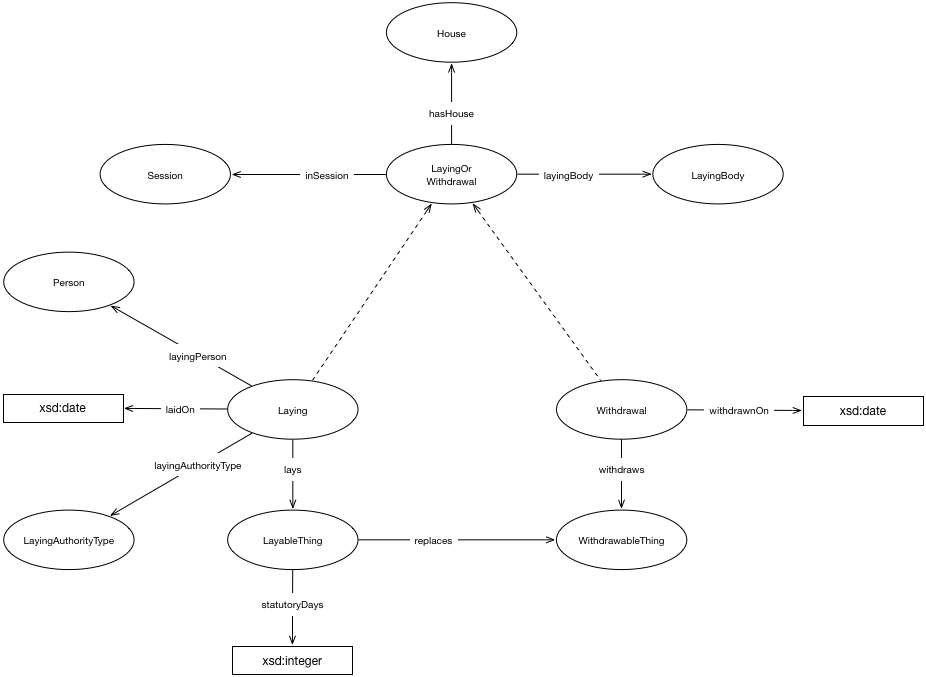
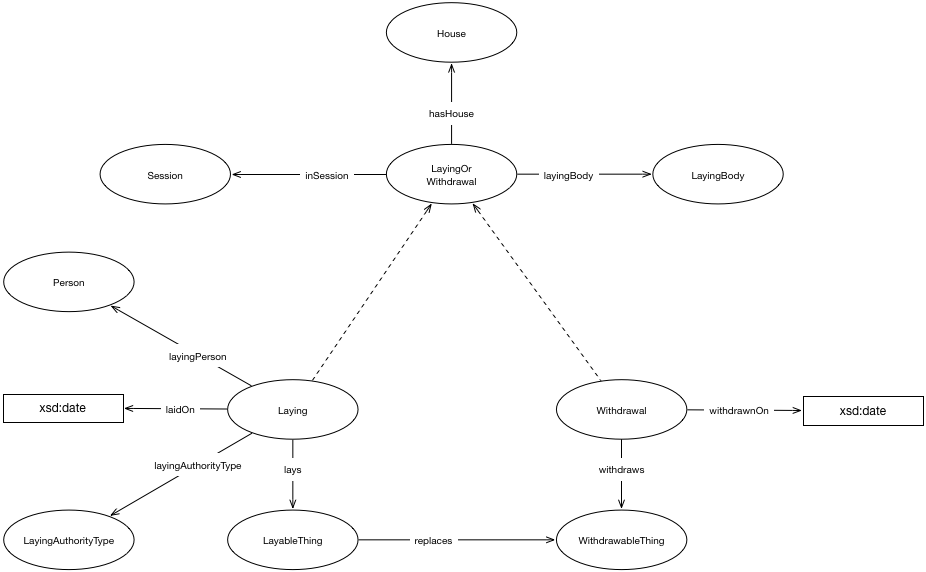
removed statutory days

diff --git a/laying/laying-ontology.html b/laying/laying-ontology.html
@@ -6,6 +6,8 @@
 
 
 
+
+
 	
 
 		<link href="https://ukparliament.github.io/ontologies/assets/css.css" rel="stylesheet" type="text/css" />
@@ -41,15 +43,4 @@
 
 
 
-
-
-
-
-
-
-
-
-
-<div id="classes"><h2>Classes</h2><ul class="hlist"><li><a href="#d4e201" title="http://parliament.uk/ontologies/laying/House">House</a></li><li><a href="#d4e213" title="http://parliament.uk/ontologies/laying/LayableThing">LayableThing</a></li><li><a href="#d4e224" title="http://parliament.uk/ontologies/laying/Laying">Laying</a></li><li><a href="#d4e237" title="http://parliament.uk/ontologies/laying/LayingAuthorityType">LayingAuthorityType</a></li><li><a href="#d4e249" title="http://parliament.uk/ontologies/laying/LayingBody">LayingBody</a></li><li><a href="#d4e260" title="http://parliament.uk/ontologies/laying/LayingOrWithdrawal">LayingOrWithdrawal</a></li><li><a href="#d4e271" title="http://parliament.uk/ontologies/laying/Person">Person</a></li><li><a href="#d4e283" title="http://parliament.uk/ontologies/laying/Session">Session</a></li><li><a href="#d4e294" title="http://parliament.uk/ontologies/laying/WithdrawableThing">WithdrawableThing</a></li><li><a href="#d4e305" title="http://parliament.uk/ontologies/laying/Withdrawal">Withdrawal</a></li></ul><div id="d4e201" class="entity"><a name="http://parliament.uk/ontologies/laying/House"></a><h3>House<sup title="class" class="type-c">c</sup><span class="backlink"> back to <a href="#toc">ToC</a> or <a href="#classes">Class ToC</a></span></h3><p><strong>IRI:</strong> http://parliament.uk/ontologies/laying/House</p><div class="comment"><span class="markdown">A parliamentary House e.g. the House of Lords.</span></div><dl class="description"><dt>is in range of</dt><dd><a href="#d4e29" title="http://parliament.uk/ontologies/laying/hasHouse">hasHouse</a><sup title="object property" class="type-op">op</sup></dd></dl></div><div id="d4e213" class="entity"><a name="http://parliament.uk/ontologies/laying/LayableThing"></a><h3>LayableThing<sup title="class" class="type-c">c</sup><span class="backlink"> back to <a href="#toc">ToC</a> or <a href="#classes">Class ToC</a></span></h3><p><strong>IRI:</strong> http://parliament.uk/ontologies/laying/LayableThing</p><div class="comment"><span class="markdown">Any type of paper which can be laid before a House.</span></div><dl class="description"><dt>is in domain of</dt><dd><a href="#d4e121" title="http://parliament.uk/ontologies/laying/replaces">replaces</a><sup title="object property" class="type-op">op</sup>, <a href="#d4e169" title="http://parliament.uk/ontologies/laying/statutoryDays">statutoryDays</a><sup title="data property" class="type-dp">dp</sup></dd><dt>is in range of</dt><dd><a href="#d4e105" title="http://parliament.uk/ontologies/laying/lays">lays</a><sup title="object property" class="type-op">op</sup></dd></dl></div><div id="d4e224" class="entity"><a name="http://parliament.uk/ontologies/laying/Laying"></a><h3>Laying<sup title="class" class="type-c">c</sup><span class="backlink"> back to <a href="#toc">ToC</a> or <a href="#classes">Class ToC</a></span></h3><p><strong>IRI:</strong> http://parliament.uk/ontologies/laying/Laying</p><div class="comment"><span class="markdown">The act of presenting a paper to a House.</span></div><dl class="description"><dt>has super-classes</dt><dd><a href="#d4e260" title="http://parliament.uk/ontologies/laying/LayingOrWithdrawal">LayingOrWithdrawal</a><sup title="class" class="type-c">c</sup></dd><dt>is in domain of</dt><dd><a href="#d4e153" title="http://parliament.uk/ontologies/laying/laidOn">laidOn</a><sup title="data property" class="type-dp">dp</sup>, <a href="#d4e59" title="http://parliament.uk/ontologies/laying/layingAuthorityType">layingAuthorityType</a><sup title="object property" class="type-op">op</sup>, <a href="#d4e90" title="http://parliament.uk/ontologies/laying/layingPerson">layingPerson</a><sup title="object property" class="type-op">op</sup>, <a href="#d4e105" title="http://parliament.uk/ontologies/laying/lays">lays</a><sup title="object property" class="type-op">op</sup></dd></dl></div><div id="d4e237" class="entity"><a name="http://parliament.uk/ontologies/laying/LayingAuthorityType"></a><h3>LayingAuthorityType<sup title="class" class="type-c">c</sup><span class="backlink"> back to <a href="#toc">ToC</a> or <a href="#classes">Class ToC</a></span></h3><p><strong>IRI:</strong> http://parliament.uk/ontologies/laying/LayingAuthorityType</p><div class="comment"><span class="markdown">The procedural authority by which a paper is laid before a House. Many documents are required by law to be laid before the House. These are called Act papers and are referred to as being laid 'by Act'. Other papers are made available to the House by the Government. These are called Command papers and are referred to as being laid 'by Command'. A paper cannot be laid by both Act and Command, although in some cases papers are laid by Act in the Commons and by Command in the Lords.</span></div><dl class="description"><dt>is in range of</dt><dd><a href="#d4e59" title="http://parliament.uk/ontologies/laying/layingAuthorityType">layingAuthorityType</a><sup title="object property" class="type-op">op</sup></dd></dl></div><div id="d4e249" class="entity"><a name="http://parliament.uk/ontologies/laying/LayingBody"></a><h3>LayingBody<sup title="class" class="type-c">c</sup><span class="backlink"> back to <a href="#toc">ToC</a> or <a href="#classes">Class ToC</a></span></h3><p><strong>IRI:</strong> http://parliament.uk/ontologies/laying/LayingBody</p><div class="comment"><span class="markdown">A body with the authority to lay papers before a House.</span></div><dl class="description"><dt>is in range of</dt><dd><a href="#d4e75" title="http://parliament.uk/ontologies/laying/layingBody">layingBody</a><sup title="object property" class="type-op">op</sup></dd></dl></div><div id="d4e260" class="entity"><a name="http://parliament.uk/ontologies/laying/LayingOrWithdrawal"></a><h3>LayingOrWithdrawal<sup title="class" class="type-c">c</sup><span class="backlink"> back to <a href="#toc">ToC</a> or <a href="#classes">Class ToC</a></span></h3><p><strong>IRI:</strong> http://parliament.uk/ontologies/laying/LayingOrWithdrawal</p><div class="comment"><span class="markdown">The act of laying before or withdrawing from a House.</span></div><dl class="description"><dt>has sub-classes</dt><dd><a href="#d4e224" title="http://parliament.uk/ontologies/laying/Laying">Laying</a><sup title="class" class="type-c">c</sup>, <a href="#d4e305" title="http://parliament.uk/ontologies/laying/Withdrawal">Withdrawal</a><sup title="class" class="type-c">c</sup></dd><dt>is in domain of</dt><dd><a href="#d4e29" title="http://parliament.uk/ontologies/laying/hasHouse">hasHouse</a><sup title="object property" class="type-op">op</sup>, <a href="#d4e44" title="http://parliament.uk/ontologies/laying/inSession">inSession</a><sup title="object property" class="type-op">op</sup>, <a href="#d4e75" title="http://parliament.uk/ontologies/laying/layingBody">layingBody</a><sup title="object property" class="type-op">op</sup></dd></dl></div><div id="d4e271" class="entity"><a name="http://parliament.uk/ontologies/laying/Person"></a><h3>Person<sup title="class" class="type-c">c</sup><span class="backlink"> back to <a href="#toc">ToC</a> or <a href="#classes">Class ToC</a></span></h3><p><strong>IRI:</strong> http://parliament.uk/ontologies/laying/Person</p><div class="comment"><span class="markdown">A person.</span></div><dl class="description"><dt>is in range of</dt><dd><a href="#d4e90" title="http://parliament.uk/ontologies/laying/layingPerson">layingPerson</a><sup title="object property" class="type-op">op</sup></dd></dl></div><div id="d4e283" class="entity"><a name="http://parliament.uk/ontologies/laying/Session"></a><h3>Session<sup title="class" class="type-c">c</sup><span class="backlink"> back to <a href="#toc">ToC</a> or <a href="#classes">Class ToC</a></span></h3><p><strong>IRI:</strong> http://parliament.uk/ontologies/laying/Session</p><div class="comment"><span class="markdown">The period during which Parliament is active. The first session of a parliament begins on the same day as the parliament. This date is named in the dissolution proclamation. It ends on the day named in the subsequent prorogation proclamation. Subsequent sessions begin and end on dates named in prorogation proclamations. The final session ends with a prorogation followed by a dissolution. Parliament may be prorogued a few days before dissolution. A session typically lasts for one year though isn't bound by that. Session periods are the same across both Houses.</span></div><dl class="description"><dt>is in range of</dt><dd><a href="#d4e44" title="http://parliament.uk/ontologies/laying/inSession">inSession</a><sup title="object property" class="type-op">op</sup></dd></dl></div><div id="d4e294" class="entity"><a name="http://parliament.uk/ontologies/laying/WithdrawableThing"></a><h3>WithdrawableThing<sup title="class" class="type-c">c</sup><span class="backlink"> back to <a href="#toc">ToC</a> or <a href="#classes">Class ToC</a></span></h3><p><strong>IRI:</strong> http://parliament.uk/ontologies/laying/WithdrawableThing</p><div class="comment"><span class="markdown">Any type of paper which can be withdrawn from a House.</span></div><dl class="description"><dt>is in range of</dt><dd><a href="#d4e121" title="http://parliament.uk/ontologies/laying/replaces">replaces</a><sup title="object property" class="type-op">op</sup>, <a href="#d4e136" title="http://parliament.uk/ontologies/laying/withdraws">withdraws</a><sup title="object property" class="type-op">op</sup></dd></dl></div><div id="d4e305" class="entity"><a name="http://parliament.uk/ontologies/laying/Withdrawal"></a><h3>Withdrawal<sup title="class" class="type-c">c</sup><span class="backlink"> back to <a href="#toc">ToC</a> or <a href="#classes">Class ToC</a></span></h3><p><strong>IRI:</strong> http://parliament.uk/ontologies/laying/Withdrawal</p><div class="comment"><span class="markdown">The act of withdrawing a paper from a House.</span></div><dl class="description"><dt>has super-classes</dt><dd><a href="#d4e260" title="http://parliament.uk/ontologies/laying/LayingOrWithdrawal">LayingOrWithdrawal</a><sup title="class" class="type-c">c</sup></dd><dt>is in domain of</dt><dd><a href="#d4e184" title="http://parliament.uk/ontologies/laying/withdrawnOn">withdrawnOn</a><sup title="data property" class="type-dp">dp</sup>, <a href="#d4e136" title="http://parliament.uk/ontologies/laying/withdraws">withdraws</a><sup title="object property" class="type-op">op</sup></dd></dl></div></div><div id="objectproperties"><h2>Object Properties</h2><ul class="hlist"><li><a href="#d4e29" title="http://parliament.uk/ontologies/laying/hasHouse">hasHouse</a></li><li><a href="#d4e44" title="http://parliament.uk/ontologies/laying/inSession">inSession</a></li><li><a href="#d4e59" title="http://parliament.uk/ontologies/laying/layingAuthorityType">layingAuthorityType</a></li><li><a href="#d4e75" title="http://parliament.uk/ontologies/laying/layingBody">layingBody</a></li><li><a href="#d4e90" title="http://parliament.uk/ontologies/laying/layingPerson">layingPerson</a></li><li><a href="#d4e105" title="http://parliament.uk/ontologies/laying/lays">lays</a></li><li><a href="#d4e121" title="http://parliament.uk/ontologies/laying/replaces">replaces</a></li><li><a href="#d4e136" title="http://parliament.uk/ontologies/laying/withdraws">withdraws</a></li></ul><div id="d4e29" class="entity"><a name="http://parliament.uk/ontologies/laying/hasHouse"></a><h3>hasHouse<sup title="object property" class="type-op">op</sup><span class="backlink"> back to <a href="#toc">ToC</a> or <a href="#objectproperties">Object Property ToC</a></span></h3><p><strong>IRI:</strong> http://parliament.uk/ontologies/laying/hasHouse</p><div class="comment"><span class="markdown">Relates an act of laying or withdrawing to the House it happens in.</span></div><div class="description"><dl><dt>has domain</dt><dd><a href="#d4e260" title="http://parliament.uk/ontologies/laying/LayingOrWithdrawal">LayingOrWithdrawal</a><sup title="class" class="type-c">c</sup></dd><dt>has range</dt><dd><a href="#d4e201" title="http://parliament.uk/ontologies/laying/House">House</a><sup title="class" class="type-c">c</sup></dd></dl></div></div><div id="d4e44" class="entity"><a name="http://parliament.uk/ontologies/laying/inSession"></a><h3>inSession<sup title="object property" class="type-op">op</sup><span class="backlink"> back to <a href="#toc">ToC</a> or <a href="#objectproperties">Object Property ToC</a></span></h3><p><strong>IRI:</strong> http://parliament.uk/ontologies/laying/inSession</p><div class="comment"><span class="markdown">Relates an act of laying or withdrawing to the Session it happens in. Note that papers may be laid during a prorogation period for the attention of the House during the subsequent session. In this case this relationship would point to the subsequent session.</span></div><div class="description"><dl><dt>has domain</dt><dd><a href="#d4e260" title="http://parliament.uk/ontologies/laying/LayingOrWithdrawal">LayingOrWithdrawal</a><sup title="class" class="type-c">c</sup></dd><dt>has range</dt><dd><a href="#d4e283" title="http://parliament.uk/ontologies/laying/Session">Session</a><sup title="class" class="type-c">c</sup></dd></dl></div></div><div id="d4e59" class="entity"><a name="http://parliament.uk/ontologies/laying/layingAuthorityType"></a><h3>layingAuthorityType<sup title="object property" class="type-op">op</sup><span class="backlink"> back to <a href="#toc">ToC</a> or <a href="#objectproperties">Object Property ToC</a></span></h3><p><strong>IRI:</strong> http://parliament.uk/ontologies/laying/layingAuthorityType</p><div class="comment"><span class="markdown">Relates an act of laying to a laying authority type.</span></div><div class="description"><dl><dt>has domain</dt><dd><a href="#d4e224" title="http://parliament.uk/ontologies/laying/Laying">Laying</a><sup title="class" class="type-c">c</sup></dd><dt>has range</dt><dd><a href="#d4e237" title="http://parliament.uk/ontologies/laying/LayingAuthorityType">LayingAuthorityType</a><sup title="class" class="type-c">c</sup></dd></dl></div></div><div id="d4e75" class="entity"><a name="http://parliament.uk/ontologies/laying/layingBody"></a><h3>layingBody<sup title="object property" class="type-op">op</sup><span class="backlink"> back to <a href="#toc">ToC</a> or <a href="#objectproperties">Object Property ToC</a></span></h3><p><strong>IRI:</strong> http://parliament.uk/ontologies/laying/layingBody</p><div class="comment"><span class="markdown">Relates an act of laying or withdrawal to the laying body initiating it.</span></div><div class="description"><dl><dt>has domain</dt><dd><a href="#d4e260" title="http://parliament.uk/ontologies/laying/LayingOrWithdrawal">LayingOrWithdrawal</a><sup title="class" class="type-c">c</sup></dd><dt>has range</dt><dd><a href="#d4e249" title="http://parliament.uk/ontologies/laying/LayingBody">LayingBody</a><sup title="class" class="type-c">c</sup></dd></dl></div></div><div id="d4e90" class="entity"><a name="http://parliament.uk/ontologies/laying/layingPerson"></a><h3>layingPerson<sup title="object property" class="type-op">op</sup><span class="backlink"> back to <a href="#toc">ToC</a> or <a href="#objectproperties">Object Property ToC</a></span></h3><p><strong>IRI:</strong> http://parliament.uk/ontologies/laying/layingPerson</p><div class="comment"><span class="markdown">Relates an act of laying to the person initiating it.</span></div><div class="description"><dl><dt>has domain</dt><dd><a href="#d4e224" title="http://parliament.uk/ontologies/laying/Laying">Laying</a><sup title="class" class="type-c">c</sup></dd><dt>has range</dt><dd><a href="#d4e271" title="http://parliament.uk/ontologies/laying/Person">Person</a><sup title="class" class="type-c">c</sup></dd></dl></div></div><div id="d4e105" class="entity"><a name="http://parliament.uk/ontologies/laying/lays"></a><h3>lays<sup title="object property" class="type-op">op</sup><span class="backlink"> back to <a href="#toc">ToC</a> or <a href="#objectproperties">Object Property ToC</a></span></h3><p><strong>IRI:</strong> http://parliament.uk/ontologies/laying/lays</p><div class="comment"><span class="markdown">Relates an act of laying to a thing which is layable.</span></div><div class="description"><dl><dt>has domain</dt><dd><a href="#d4e224" title="http://parliament.uk/ontologies/laying/Laying">Laying</a><sup title="class" class="type-c">c</sup></dd><dt>has range</dt><dd><a href="#d4e213" title="http://parliament.uk/ontologies/laying/LayableThing">LayableThing</a><sup title="class" class="type-c">c</sup></dd></dl></div></div><div id="d4e121" class="entity"><a name="http://parliament.uk/ontologies/laying/replaces"></a><h3>replaces<sup title="object property" class="type-op">op</sup><span class="backlink"> back to <a href="#toc">ToC</a> or <a href="#objectproperties">Object Property ToC</a></span></h3><p><strong>IRI:</strong> http://parliament.uk/ontologies/laying/replaces</p><div class="comment"><span class="markdown">Relates a laid thing to the withdrawn thing it replaces.</span></div><div class="description"><dl><dt>has domain</dt><dd><a href="#d4e213" title="http://parliament.uk/ontologies/laying/LayableThing">LayableThing</a><sup title="class" class="type-c">c</sup></dd><dt>has range</dt><dd><a href="#d4e294" title="http://parliament.uk/ontologies/laying/WithdrawableThing">WithdrawableThing</a><sup title="class" class="type-c">c</sup></dd></dl></div></div><div id="d4e136" class="entity"><a name="http://parliament.uk/ontologies/laying/withdraws"></a><h3>withdraws<sup title="object property" class="type-op">op</sup><span class="backlink"> back to <a href="#toc">ToC</a> or <a href="#objectproperties">Object Property ToC</a></span></h3><p><strong>IRI:</strong> http://parliament.uk/ontologies/laying/withdraws</p><div class="comment"><span class="markdown">Relates an act of withdrawal to a thing which is withdrawable.</span></div><div class="description"><dl><dt>has domain</dt><dd><a href="#d4e305" title="http://parliament.uk/ontologies/laying/Withdrawal">Withdrawal</a><sup title="class" class="type-c">c</sup></dd><dt>has range</dt><dd><a href="#d4e294" title="http://parliament.uk/ontologies/laying/WithdrawableThing">WithdrawableThing</a><sup title="class" class="type-c">c</sup></dd></dl></div></div></div><div id="dataproperties"><h2>Data Properties</h2><ul class="hlist"><li><a href="#d4e153" title="http://parliament.uk/ontologies/laying/laidOn">laidOn</a></li><li><a href="#d4e169" title="http://parliament.uk/ontologies/laying/statutoryDays">statutoryDays</a></li><li><a href="#d4e184" title="http://parliament.uk/ontologies/laying/withdrawnOn">withdrawnOn</a></li></ul><div id="d4e153" class="entity"><a name="http://parliament.uk/ontologies/laying/laidOn"></a><h3>laidOn<sup title="data property" class="type-dp">dp</sup><span class="backlink"> back to <a href="#toc">ToC</a> or <a href="#dataproperties">Data Property ToC</a></span></h3><p><strong>IRI:</strong> http://parliament.uk/ontologies/laying/laidOn</p><div class="comment"><span class="markdown">Relates an act of laying to the date it happens on. Note that this can only happen during a parliamentary period (during a session or prorogation period), not during dissolution.</span></div><div class="description"><dl><dt>has domain</dt><dd><a href="#d4e224" title="http://parliament.uk/ontologies/laying/Laying">Laying</a><sup title="class" class="type-c">c</sup></dd><dt>has range</dt><dd><span class="dotted" title="http://www.w3.org/2001/XMLSchema#date">date</span></dd></dl></div></div><div id="d4e169" class="entity"><a name="http://parliament.uk/ontologies/laying/statutoryDays"></a><h3>statutoryDays<sup title="data property" class="type-dp">dp</sup><span class="backlink"> back to <a href="#toc">ToC</a> or <a href="#dataproperties">Data Property ToC</a></span></h3><p><strong>IRI:</strong> http://parliament.uk/ontologies/laying/statutoryDays</p><div class="comment"><span class="markdown">The number of days during which Parliament can approve or pray against a laid instrument e.g. a statutory instrument or treaty.</span></div><div class="description"><dl><dt>has domain</dt><dd><a href="#d4e213" title="http://parliament.uk/ontologies/laying/LayableThing">LayableThing</a><sup title="class" class="type-c">c</sup></dd><dt>has range</dt><dd><span class="dotted" title="http://www.w3.org/2001/XMLSchema#integer">integer</span></dd></dl></div></div><div id="d4e184" class="entity"><a name="http://parliament.uk/ontologies/laying/withdrawnOn"></a><h3>withdrawnOn<sup title="data property" class="type-dp">dp</sup><span class="backlink"> back to <a href="#toc">ToC</a> or <a href="#dataproperties">Data Property ToC</a></span></h3><p><strong>IRI:</strong> http://parliament.uk/ontologies/laying/withdrawnOn</p><div class="comment"><span class="markdown">Relates an act of withdrawal to the date it happens on.</span></div><div class="description"><dl><dt>has domain</dt><dd><a href="#d4e305" title="http://parliament.uk/ontologies/laying/Withdrawal">Withdrawal</a><sup title="class" class="type-c">c</sup></dd><dt>has range</dt><dd><span class="dotted" title="http://www.w3.org/2001/XMLSchema#date">date</span></dd></dl></div></div></div><div id="namespacedeclarations"><h2>Namespace Declarations <span class="backlink"> back to <a href="#toc">ToC</a></span></h2><dl><dt><em>default namespace</em></dt><dd>http://parliament.uk/ontologies/laying/</dd><dt>owl</dt><dd>http://www.w3.org/2002/07/owl#</dd><dt>rdf</dt><dd>http://www.w3.org/1999/02/22-rdf-syntax-ns#</dd><dt>rdfs</dt><dd>http://www.w3.org/2000/01/rdf-schema#</dd><dt>terms</dt><dd>http://purl.org/dc/terms/</dd><dt>xsd</dt><dd>http://www.w3.org/2001/XMLSchema#</dd></dl></div><p class="endnote">This HTML document was obtained by processing the OWL ontology source code through <a href="http://www.essepuntato.it/lode">LODE</a>, <em>Live OWL Documentation Environment</em>, developed by <a href="http://www.essepuntato.it">Silvio Peroni</a>.</p></body></html>
-
-
+<div id="classes"><h2>Classes</h2><ul class="hlist"><li><a href="#d4e186" title="http://parliament.uk/ontologies/laying/House">House</a></li><li><a href="#d4e197" title="http://parliament.uk/ontologies/laying/LayableThing">LayableThing</a></li><li><a href="#d4e209" title="http://parliament.uk/ontologies/laying/Laying">Laying</a></li><li><a href="#d4e222" title="http://parliament.uk/ontologies/laying/LayingAuthorityType">LayingAuthorityType</a></li><li><a href="#d4e233" title="http://parliament.uk/ontologies/laying/LayingBody">LayingBody</a></li><li><a href="#d4e245" title="http://parliament.uk/ontologies/laying/LayingOrWithdrawal">LayingOrWithdrawal</a></li><li><a href="#d4e256" title="http://parliament.uk/ontologies/laying/Person">Person</a></li><li><a href="#d4e267" title="http://parliament.uk/ontologies/laying/Session">Session</a></li><li><a href="#d4e279" title="http://parliament.uk/ontologies/laying/WithdrawableThing">WithdrawableThing</a></li><li><a href="#d4e290" title="http://parliament.uk/ontologies/laying/Withdrawal">Withdrawal</a></li></ul><div id="d4e186" class="entity"><a name="http://parliament.uk/ontologies/laying/House"></a><h3>House<sup title="class" class="type-c">c</sup><span class="backlink"> back to <a href="#toc">ToC</a> or <a href="#classes">Class ToC</a></span></h3><p><strong>IRI:</strong> http://parliament.uk/ontologies/laying/House</p><div class="comment"><span class="markdown">A parliamentary House e.g. the House of Lords.</span></div><dl class="description"><dt>is in range of</dt><dd><a href="#d4e29" title="http://parliament.uk/ontologies/laying/hasHouse">hasHouse</a><sup title="object property" class="type-op">op</sup></dd></dl></div><div id="d4e197" class="entity"><a name="http://parliament.uk/ontologies/laying/LayableThing"></a><h3>LayableThing<sup title="class" class="type-c">c</sup><span class="backlink"> back to <a href="#toc">ToC</a> or <a href="#classes">Class ToC</a></span></h3><p><strong>IRI:</strong> http://parliament.uk/ontologies/laying/LayableThing</p><div class="comment"><span class="markdown">Any type of paper which can be laid before a House.</span></div><dl class="description"><dt>is in domain of</dt><dd><a href="#d4e121" title="http://parliament.uk/ontologies/laying/replaces">replaces</a><sup title="object property" class="type-op">op</sup></dd><dt>is in range of</dt><dd><a href="#d4e105" title="http://parliament.uk/ontologies/laying/lays">lays</a><sup title="object property" class="type-op">op</sup></dd></dl></div><div id="d4e209" class="entity"><a name="http://parliament.uk/ontologies/laying/Laying"></a><h3>Laying<sup title="class" class="type-c">c</sup><span class="backlink"> back to <a href="#toc">ToC</a> or <a href="#classes">Class ToC</a></span></h3><p><strong>IRI:</strong> http://parliament.uk/ontologies/laying/Laying</p><div class="comment"><span class="markdown">The act of presenting a paper to a House.</span></div><dl class="description"><dt>has super-classes</dt><dd><a href="#d4e245" title="http://parliament.uk/ontologies/laying/LayingOrWithdrawal">LayingOrWithdrawal</a><sup title="class" class="type-c">c</sup></dd><dt>is in domain of</dt><dd><a href="#d4e153" title="http://parliament.uk/ontologies/laying/laidOn">laidOn</a><sup title="data property" class="type-dp">dp</sup>, <a href="#d4e59" title="http://parliament.uk/ontologies/laying/layingAuthorityType">layingAuthorityType</a><sup title="object property" class="type-op">op</sup>, <a href="#d4e90" title="http://parliament.uk/ontologies/laying/layingPerson">layingPerson</a><sup title="object property" class="type-op">op</sup>, <a href="#d4e105" title="http://parliament.uk/ontologies/laying/lays">lays</a><sup title="object property" class="type-op">op</sup></dd></dl></div><div id="d4e222" class="entity"><a name="http://parliament.uk/ontologies/laying/LayingAuthorityType"></a><h3>LayingAuthorityType<sup title="class" class="type-c">c</sup><span class="backlink"> back to <a href="#toc">ToC</a> or <a href="#classes">Class ToC</a></span></h3><p><strong>IRI:</strong> http://parliament.uk/ontologies/laying/LayingAuthorityType</p><div class="comment"><span class="markdown">The procedural authority by which a paper is laid before a House. Many documents are required by law to be laid before the House. These are called Act papers and are referred to as being laid 'by Act'. Other papers are made available to the House by the Government. These are called Command papers and are referred to as being laid 'by Command'. A paper cannot be laid by both Act and Command, although in some cases papers are laid by Act in the Commons and by Command in the Lords.</span></div><dl class="description"><dt>is in range of</dt><dd><a href="#d4e59" title="http://parliament.uk/ontologies/laying/layingAuthorityType">layingAuthorityType</a><sup title="object property" class="type-op">op</sup></dd></dl></div><div id="d4e233" class="entity"><a name="http://parliament.uk/ontologies/laying/LayingBody"></a><h3>LayingBody<sup title="class" class="type-c">c</sup><span class="backlink"> back to <a href="#toc">ToC</a> or <a href="#classes">Class ToC</a></span></h3><p><strong>IRI:</strong> http://parliament.uk/ontologies/laying/LayingBody</p><div class="comment"><span class="markdown">A body with the authority to lay papers before a House.</span></div><dl class="description"><dt>is in range of</dt><dd><a href="#d4e75" title="http://parliament.uk/ontologies/laying/layingBody">layingBody</a><sup title="object property" class="type-op">op</sup></dd></dl></div><div id="d4e245" class="entity"><a name="http://parliament.uk/ontologies/laying/LayingOrWithdrawal"></a><h3>LayingOrWithdrawal<sup title="class" class="type-c">c</sup><span class="backlink"> back to <a href="#toc">ToC</a> or <a href="#classes">Class ToC</a></span></h3><p><strong>IRI:</strong> http://parliament.uk/ontologies/laying/LayingOrWithdrawal</p><div class="comment"><span class="markdown">The act of laying before or withdrawing from a House.</span></div><dl class="description"><dt>has sub-classes</dt><dd><a href="#d4e209" title="http://parliament.uk/ontologies/laying/Laying">Laying</a><sup title="class" class="type-c">c</sup>, <a href="#d4e290" title="http://parliament.uk/ontologies/laying/Withdrawal">Withdrawal</a><sup title="class" class="type-c">c</sup></dd><dt>is in domain of</dt><dd><a href="#d4e29" title="http://parliament.uk/ontologies/laying/hasHouse">hasHouse</a><sup title="object property" class="type-op">op</sup>, <a href="#d4e44" title="http://parliament.uk/ontologies/laying/inSession">inSession</a><sup title="object property" class="type-op">op</sup>, <a href="#d4e75" title="http://parliament.uk/ontologies/laying/layingBody">layingBody</a><sup title="object property" class="type-op">op</sup></dd></dl></div><div id="d4e256" class="entity"><a name="http://parliament.uk/ontologies/laying/Person"></a><h3>Person<sup title="class" class="type-c">c</sup><span class="backlink"> back to <a href="#toc">ToC</a> or <a href="#classes">Class ToC</a></span></h3><p><strong>IRI:</strong> http://parliament.uk/ontologies/laying/Person</p><div class="comment"><span class="markdown">A person.</span></div><dl class="description"><dt>is in range of</dt><dd><a href="#d4e90" title="http://parliament.uk/ontologies/laying/layingPerson">layingPerson</a><sup title="object property" class="type-op">op</sup></dd></dl></div><div id="d4e267" class="entity"><a name="http://parliament.uk/ontologies/laying/Session"></a><h3>Session<sup title="class" class="type-c">c</sup><span class="backlink"> back to <a href="#toc">ToC</a> or <a href="#classes">Class ToC</a></span></h3><p><strong>IRI:</strong> http://parliament.uk/ontologies/laying/Session</p><div class="comment"><span class="markdown">The period during which Parliament is active. The first session of a parliament begins on the same day as the parliament. This date is named in the dissolution proclamation. It ends on the day named in the subsequent prorogation proclamation. Subsequent sessions begin and end on dates named in prorogation proclamations. The final session ends with a prorogation followed by a dissolution. Parliament may be prorogued a few days before dissolution. A session typically lasts for one year though isn't bound by that. Session periods are the same across both Houses.</span></div><dl class="description"><dt>is in range of</dt><dd><a href="#d4e44" title="http://parliament.uk/ontologies/laying/inSession">inSession</a><sup title="object property" class="type-op">op</sup></dd></dl></div><div id="d4e279" class="entity"><a name="http://parliament.uk/ontologies/laying/WithdrawableThing"></a><h3>WithdrawableThing<sup title="class" class="type-c">c</sup><span class="backlink"> back to <a href="#toc">ToC</a> or <a href="#classes">Class ToC</a></span></h3><p><strong>IRI:</strong> http://parliament.uk/ontologies/laying/WithdrawableThing</p><div class="comment"><span class="markdown">Any type of paper which can be withdrawn from a House.</span></div><dl class="description"><dt>is in range of</dt><dd><a href="#d4e121" title="http://parliament.uk/ontologies/laying/replaces">replaces</a><sup title="object property" class="type-op">op</sup>, <a href="#d4e136" title="http://parliament.uk/ontologies/laying/withdraws">withdraws</a><sup title="object property" class="type-op">op</sup></dd></dl></div><div id="d4e290" class="entity"><a name="http://parliament.uk/ontologies/laying/Withdrawal"></a><h3>Withdrawal<sup title="class" class="type-c">c</sup><span class="backlink"> back to <a href="#toc">ToC</a> or <a href="#classes">Class ToC</a></span></h3><p><strong>IRI:</strong> http://parliament.uk/ontologies/laying/Withdrawal</p><div class="comment"><span class="markdown">The act of withdrawing a paper from a House.</span></div><dl class="description"><dt>has super-classes</dt><dd><a href="#d4e245" title="http://parliament.uk/ontologies/laying/LayingOrWithdrawal">LayingOrWithdrawal</a><sup title="class" class="type-c">c</sup></dd><dt>is in domain of</dt><dd><a href="#d4e169" title="http://parliament.uk/ontologies/laying/withdrawnOn">withdrawnOn</a><sup title="data property" class="type-dp">dp</sup>, <a href="#d4e136" title="http://parliament.uk/ontologies/laying/withdraws">withdraws</a><sup title="object property" class="type-op">op</sup></dd></dl></div></div><div id="objectproperties"><h2>Object Properties</h2><ul class="hlist"><li><a href="#d4e29" title="http://parliament.uk/ontologies/laying/hasHouse">hasHouse</a></li><li><a href="#d4e44" title="http://parliament.uk/ontologies/laying/inSession">inSession</a></li><li><a href="#d4e59" title="http://parliament.uk/ontologies/laying/layingAuthorityType">layingAuthorityType</a></li><li><a href="#d4e75" title="http://parliament.uk/ontologies/laying/layingBody">layingBody</a></li><li><a href="#d4e90" title="http://parliament.uk/ontologies/laying/layingPerson">layingPerson</a></li><li><a href="#d4e105" title="http://parliament.uk/ontologies/laying/lays">lays</a></li><li><a href="#d4e121" title="http://parliament.uk/ontologies/laying/replaces">replaces</a></li><li><a href="#d4e136" title="http://parliament.uk/ontologies/laying/withdraws">withdraws</a></li></ul><div id="d4e29" class="entity"><a name="http://parliament.uk/ontologies/laying/hasHouse"></a><h3>hasHouse<sup title="object property" class="type-op">op</sup><span class="backlink"> back to <a href="#toc">ToC</a> or <a href="#objectproperties">Object Property ToC</a></span></h3><p><strong>IRI:</strong> http://parliament.uk/ontologies/laying/hasHouse</p><div class="comment"><span class="markdown">Relates an act of laying or withdrawing to the House it happens in.</span></div><div class="description"><dl><dt>has domain</dt><dd><a href="#d4e245" title="http://parliament.uk/ontologies/laying/LayingOrWithdrawal">LayingOrWithdrawal</a><sup title="class" class="type-c">c</sup></dd><dt>has range</dt><dd><a href="#d4e186" title="http://parliament.uk/ontologies/laying/House">House</a><sup title="class" class="type-c">c</sup></dd></dl></div></div><div id="d4e44" class="entity"><a name="http://parliament.uk/ontologies/laying/inSession"></a><h3>inSession<sup title="object property" class="type-op">op</sup><span class="backlink"> back to <a href="#toc">ToC</a> or <a href="#objectproperties">Object Property ToC</a></span></h3><p><strong>IRI:</strong> http://parliament.uk/ontologies/laying/inSession</p><div class="comment"><span class="markdown">Relates an act of laying or withdrawing to the Session it happens in. Note that papers may be laid during a prorogation period for the attention of the House during the subsequent session. In this case this relationship would point to the subsequent session.</span></div><div class="description"><dl><dt>has domain</dt><dd><a href="#d4e245" title="http://parliament.uk/ontologies/laying/LayingOrWithdrawal">LayingOrWithdrawal</a><sup title="class" class="type-c">c</sup></dd><dt>has range</dt><dd><a href="#d4e267" title="http://parliament.uk/ontologies/laying/Session">Session</a><sup title="class" class="type-c">c</sup></dd></dl></div></div><div id="d4e59" class="entity"><a name="http://parliament.uk/ontologies/laying/layingAuthorityType"></a><h3>layingAuthorityType<sup title="object property" class="type-op">op</sup><span class="backlink"> back to <a href="#toc">ToC</a> or <a href="#objectproperties">Object Property ToC</a></span></h3><p><strong>IRI:</strong> http://parliament.uk/ontologies/laying/layingAuthorityType</p><div class="comment"><span class="markdown">Relates an act of laying to a laying authority type.</span></div><div class="description"><dl><dt>has domain</dt><dd><a href="#d4e209" title="http://parliament.uk/ontologies/laying/Laying">Laying</a><sup title="class" class="type-c">c</sup></dd><dt>has range</dt><dd><a href="#d4e222" title="http://parliament.uk/ontologies/laying/LayingAuthorityType">LayingAuthorityType</a><sup title="class" class="type-c">c</sup></dd></dl></div></div><div id="d4e75" class="entity"><a name="http://parliament.uk/ontologies/laying/layingBody"></a><h3>layingBody<sup title="object property" class="type-op">op</sup><span class="backlink"> back to <a href="#toc">ToC</a> or <a href="#objectproperties">Object Property ToC</a></span></h3><p><strong>IRI:</strong> http://parliament.uk/ontologies/laying/layingBody</p><div class="comment"><span class="markdown">Relates an act of laying or withdrawal to the laying body initiating it.</span></div><div class="description"><dl><dt>has domain</dt><dd><a href="#d4e245" title="http://parliament.uk/ontologies/laying/LayingOrWithdrawal">LayingOrWithdrawal</a><sup title="class" class="type-c">c</sup></dd><dt>has range</dt><dd><a href="#d4e233" title="http://parliament.uk/ontologies/laying/LayingBody">LayingBody</a><sup title="class" class="type-c">c</sup></dd></dl></div></div><div id="d4e90" class="entity"><a name="http://parliament.uk/ontologies/laying/layingPerson"></a><h3>layingPerson<sup title="object property" class="type-op">op</sup><span class="backlink"> back to <a href="#toc">ToC</a> or <a href="#objectproperties">Object Property ToC</a></span></h3><p><strong>IRI:</strong> http://parliament.uk/ontologies/laying/layingPerson</p><div class="comment"><span class="markdown">Relates an act of laying to the person initiating it.</span></div><div class="description"><dl><dt>has domain</dt><dd><a href="#d4e209" title="http://parliament.uk/ontologies/laying/Laying">Laying</a><sup title="class" class="type-c">c</sup></dd><dt>has range</dt><dd><a href="#d4e256" title="http://parliament.uk/ontologies/laying/Person">Person</a><sup title="class" class="type-c">c</sup></dd></dl></div></div><div id="d4e105" class="entity"><a name="http://parliament.uk/ontologies/laying/lays"></a><h3>lays<sup title="object property" class="type-op">op</sup><span class="backlink"> back to <a href="#toc">ToC</a> or <a href="#objectproperties">Object Property ToC</a></span></h3><p><strong>IRI:</strong> http://parliament.uk/ontologies/laying/lays</p><div class="comment"><span class="markdown">Relates an act of laying to a thing which is layable.</span></div><div class="description"><dl><dt>has domain</dt><dd><a href="#d4e209" title="http://parliament.uk/ontologies/laying/Laying">Laying</a><sup title="class" class="type-c">c</sup></dd><dt>has range</dt><dd><a href="#d4e197" title="http://parliament.uk/ontologies/laying/LayableThing">LayableThing</a><sup title="class" class="type-c">c</sup></dd></dl></div></div><div id="d4e121" class="entity"><a name="http://parliament.uk/ontologies/laying/replaces"></a><h3>replaces<sup title="object property" class="type-op">op</sup><span class="backlink"> back to <a href="#toc">ToC</a> or <a href="#objectproperties">Object Property ToC</a></span></h3><p><strong>IRI:</strong> http://parliament.uk/ontologies/laying/replaces</p><div class="comment"><span class="markdown">Relates a laid thing to the withdrawn thing it replaces.</span></div><div class="description"><dl><dt>has domain</dt><dd><a href="#d4e197" title="http://parliament.uk/ontologies/laying/LayableThing">LayableThing</a><sup title="class" class="type-c">c</sup></dd><dt>has range</dt><dd><a href="#d4e279" title="http://parliament.uk/ontologies/laying/WithdrawableThing">WithdrawableThing</a><sup title="class" class="type-c">c</sup></dd></dl></div></div><div id="d4e136" class="entity"><a name="http://parliament.uk/ontologies/laying/withdraws"></a><h3>withdraws<sup title="object property" class="type-op">op</sup><span class="backlink"> back to <a href="#toc">ToC</a> or <a href="#objectproperties">Object Property ToC</a></span></h3><p><strong>IRI:</strong> http://parliament.uk/ontologies/laying/withdraws</p><div class="comment"><span class="markdown">Relates an act of withdrawal to a thing which is withdrawable.</span></div><div class="description"><dl><dt>has domain</dt><dd><a href="#d4e290" title="http://parliament.uk/ontologies/laying/Withdrawal">Withdrawal</a><sup title="class" class="type-c">c</sup></dd><dt>has range</dt><dd><a href="#d4e279" title="http://parliament.uk/ontologies/laying/WithdrawableThing">WithdrawableThing</a><sup title="class" class="type-c">c</sup></dd></dl></div></div></div><div id="dataproperties"><h2>Data Properties</h2><ul class="hlist"><li><a href="#d4e153" title="http://parliament.uk/ontologies/laying/laidOn">laidOn</a></li><li><a href="#d4e169" title="http://parliament.uk/ontologies/laying/withdrawnOn">withdrawnOn</a></li></ul><div id="d4e153" class="entity"><a name="http://parliament.uk/ontologies/laying/laidOn"></a><h3>laidOn<sup title="data property" class="type-dp">dp</sup><span class="backlink"> back to <a href="#toc">ToC</a> or <a href="#dataproperties">Data Property ToC</a></span></h3><p><strong>IRI:</strong> http://parliament.uk/ontologies/laying/laidOn</p><div class="comment"><span class="markdown">Relates an act of laying to the date it happens on. Note that this can only happen during a parliamentary period (during a session or prorogation period), not during dissolution.</span></div><div class="description"><dl><dt>has domain</dt><dd><a href="#d4e209" title="http://parliament.uk/ontologies/laying/Laying">Laying</a><sup title="class" class="type-c">c</sup></dd><dt>has range</dt><dd><span class="dotted" title="http://www.w3.org/2001/XMLSchema#date">date</span></dd></dl></div></div><div id="d4e169" class="entity"><a name="http://parliament.uk/ontologies/laying/withdrawnOn"></a><h3>withdrawnOn<sup title="data property" class="type-dp">dp</sup><span class="backlink"> back to <a href="#toc">ToC</a> or <a href="#dataproperties">Data Property ToC</a></span></h3><p><strong>IRI:</strong> http://parliament.uk/ontologies/laying/withdrawnOn</p><div class="comment"><span class="markdown">Relates an act of withdrawal to the date it happens on.</span></div><div class="description"><dl><dt>has domain</dt><dd><a href="#d4e290" title="http://parliament.uk/ontologies/laying/Withdrawal">Withdrawal</a><sup title="class" class="type-c">c</sup></dd><dt>has range</dt><dd><span class="dotted" title="http://www.w3.org/2001/XMLSchema#date">date</span></dd></dl></div></div></div><div id="namespacedeclarations"><h2>Namespace Declarations <span class="backlink"> back to <a href="#toc">ToC</a></span></h2><dl><dt><em>default namespace</em></dt><dd>http://parliament.uk/ontologies/laying/</dd><dt>owl</dt><dd>http://www.w3.org/2002/07/owl#</dd><dt>rdf</dt><dd>http://www.w3.org/1999/02/22-rdf-syntax-ns#</dd><dt>rdfs</dt><dd>http://www.w3.org/2000/01/rdf-schema#</dd><dt>terms</dt><dd>http://purl.org/dc/terms/</dd><dt>xsd</dt><dd>http://www.w3.org/2001/XMLSchema#</dd></dl></div><p class="endnote">This HTML document was obtained by processing the OWL ontology source code through <a href="http://www.essepuntato.it/lode">LODE</a>, <em>Live OWL Documentation Environment</em>, developed by <a href="http://www.essepuntato.it">Silvio Peroni</a>.</p></body></html>
